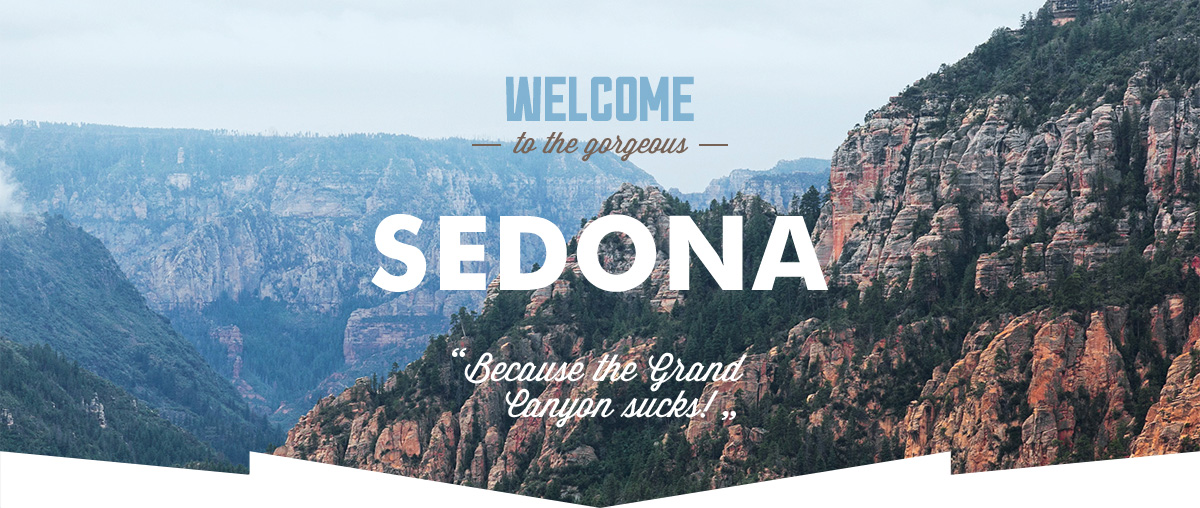
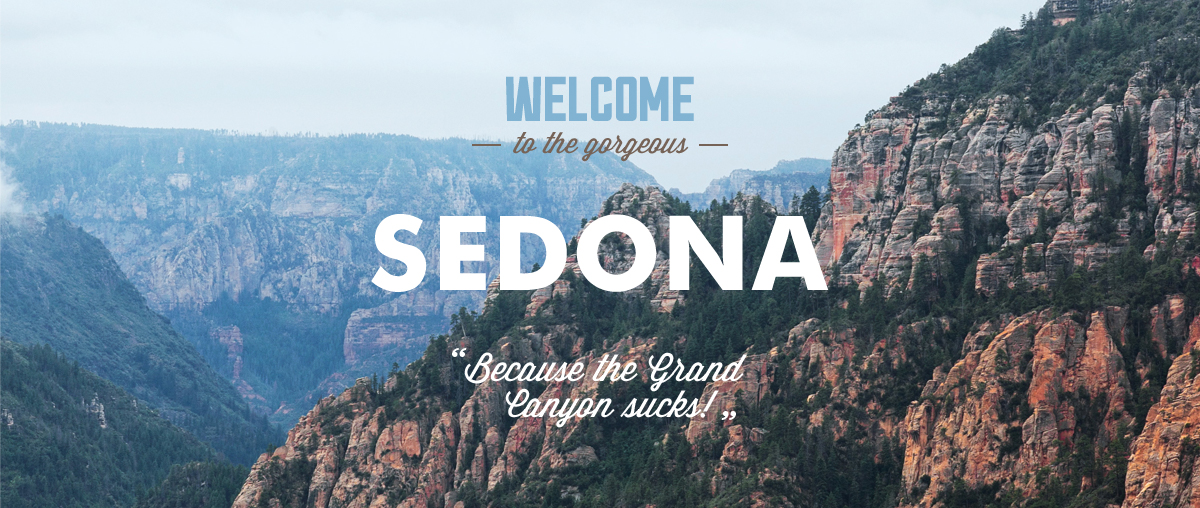
начало разметки главной
Просто посмотри, пожалуйста. Такое ощущение что все неправильно, хоть
внешне выглядит пока норм. Не знаю как центрировать элемент перед
формой. Как сверстать саму форму найду где-нибудь. + как разместить
заголовок в хэдэре?

diff --git a/index-1200.html b/index-1200.html
@@ -25,48 +25,46 @@
                 </li>
               </ul>
             </nav>
-            <a href="#"><img src="img/top-logo.png" alt="head-logo"></a>
+            <a class="logo" href="#"><img src="img/top-logo.png" alt="head-logo"></a>
           </header>
-        <img src="img/index-bg.jpg" alt="background">
-            <h1>Седона - небольшой городок в Аризоне,<br>заслуживающий большего!</h1>
+            <h1>Седона - небольшой городок в Аризоне, заслуживающий большего!</h1>
             <h2 class="caption-top">Рассмотрим 5 причин, по которым Седона круче чем Гранд Каньон</h2>
-          <div class="img-block">
-            <h2>Настоящий<br>городок</h2>
+          <div class="img-block-1">
+            <h2>Настоящий городок</h2>
             <p>
               <span class="number">№1</span>
                 Седона- не аттракцион для туристов, там течет своя жизнь
             </p>
-            <img src="img/content-block.jpg" alt="true-city">
           </div>
-          <div class="icons">
+          <img class="first-img, clearfix" src="img/content-block.jpg" alt="true-city">
+          <div class="icon-1">
             <img src="img/icon1.png" alt="place">
             <h2>Жилье</h2>
             <p>
               Рекомендуем пожить в настоящем мотеле, все как в кино!
             </p>
           </div>
-          <div class="icons">
+          <div class="icon-2">
             <img src="img/icon2.png" alt="food">
             <h2>Еда</h2>
             <p>
               Всегда заказывайте фирменный бургер, вы не разочаруетесь!
             </p>
           </div>
-          <div class="icons">
+          <div class="icon-3">
             <img src="img/icon3.png" alt="souvenires">
             <h2>Сувениры</h2>
-            <p>
-              Не только китайского, но и местного производства!
+            <p>Не только китайского, но и местного производства!
             </p>
           </div>
-          <div class="img-block">
-            <img src="img/content-block2.jpg" alt="devil-bridge">
+          <div class="img-block-2">
             <h2 class=>Там есть мост дьявола</h2>
             <p>
               <span class="number">№2</span>
               Да, по нему можно пройти! Если конечно вы осмелитесь
             </p>
           </div>
+          <img class="second-img, clearfix" src="img/content-block2.jpg" alt="devil-bridge">
           <div class=block>
             <h2>Небольшая площадь</h2>
             <p>
@@ -87,7 +85,8 @@
               <span class="number">№5</span>
               Большинство едет в гранд каньон и толпится там
             </p>
-            <div>
+          </div>
+            <div class="bot-caption">
               <h2 class="interest">Заинтересовались?</h2>
               Укажите предполагаемые даты поездки,<br>
               и мы покажем вамлучшие предложения гостиниц в Седоне

diff --git a/css/style.css b/css/style.css
@@ -1,12 +1,93 @@
-h2 {
-font-family: 'PT Sans', sans-serif;
-color: black;
-font-size: 21pt;
-font-weight: bold;
-}
-body {
+body{
   font-family: 'PT Sans', sans-serif;
   color: black;
-  font-size: 14pt;
-  font-weight: normal;
+  font-size: 14px;
+  background: url("../img/index-bg.jpg") no-repeat;
+  background-position: center 56px;
+}
+.clearfix::after {
+  content: "";
+  display: table;
+  clear: both;
+}
+.container{
+  	margin: 0 auto;
+  	width: 1200px;
+}
+.main-nav{
+}
+.main-nav li{
+  display: inline-block;
+    margin-bottom: 560px;
+}
+.logo{
+
+  }
+h1{
+  font-family: 'PT Sans', sans-serif;
+  color: black;
+  font-size: 21px;
+  line-height: 26px;
+  font-weight: bold;
+  text-align: center;
+}
+h2{
+  font-family: 'PT Sans', sans-serif;
+  color: black;
+  font-size: 21px;
+  font-weight: bold;
+}
+.caption-top{
+  font-family: 'PT Sans', sans-serif;
+  color: black;
+  font-size: 14px;
+  line-height: 26px;
+  text-align: center;
+  margin-bottom: 46px;
+}
+.img-block-1{
+  float: left;
+  width: 33%;
+  text-align: center;
+}
+.first-img{
+  float: right;
+  width:66%;
+}
+.icon-1{
+  float: left;
+  margin-top: 60px;
+  margin-bottom: 84px;
+  width: 33%;
+  text-align: center;
+}
+.icon-2{
+  float: left;
+  margin-top: 60px;
+  margin-bottom: 84px;
+  width: 33%;
+  text-align: center;
+}
+.icon-3{
+  float: left;
+  margin-top: 60px;
+  margin-bottom: 84px;
+  width: 33%;
+  text-align: center;
+}
+.img-block-2{
+  float: right;
+  text-align: center;
+  width: 33%;
+}
+.second-img{
+  float: left;
+  width: 66%;
+}
+.block{
+  float: left;
+  width: 33%;
+  text-align: center;
+}
+.bot-caption{
 }

diff --git a/hotels-1200.html b/hotels-1200.html
@@ -27,7 +27,6 @@
              </nav>
              <a href="#"><img src="img/top-logo.png" alt="head-logo"></a>
            </header>
-           <img src="img/hotels-bg.jpg" alt="bg">
         <form class="filter" method="get">
           <h2>Инфраструктура</h2>
               <input type="checkbox" id="pool" name="content" checked>
